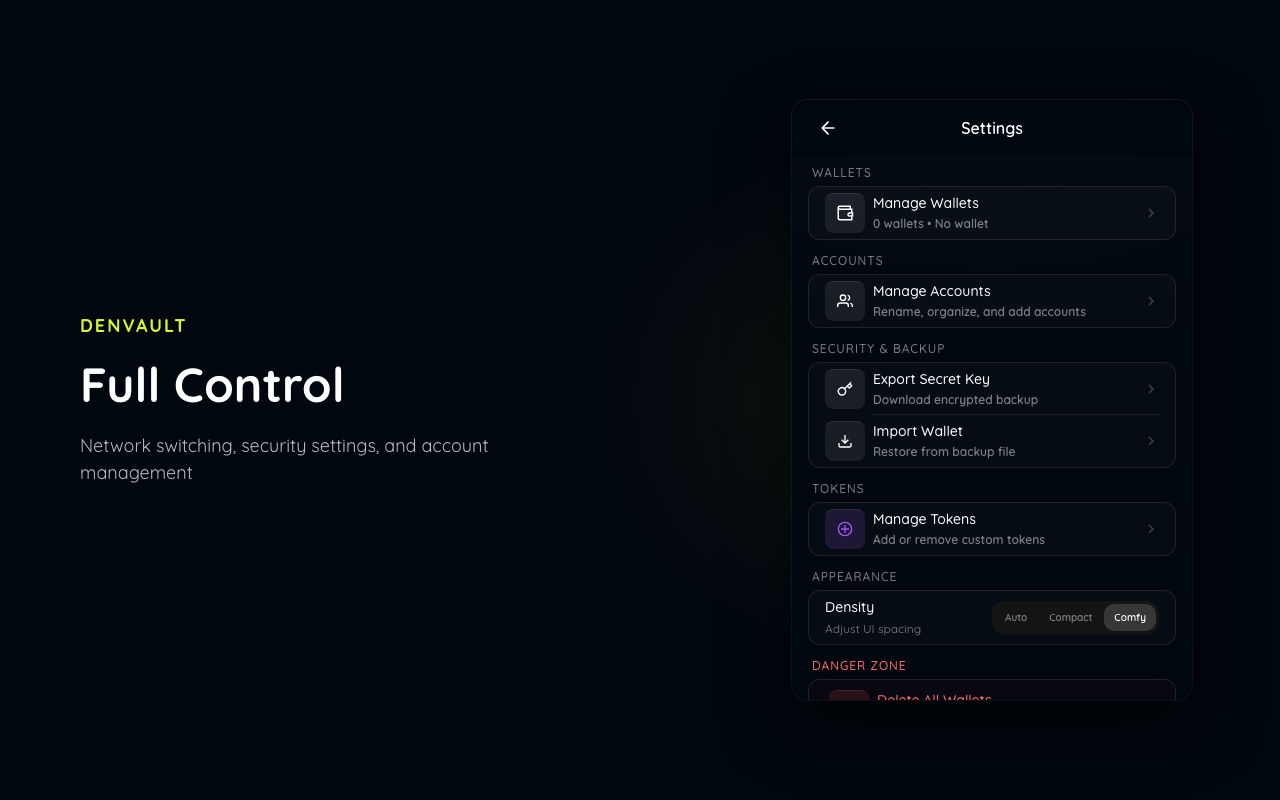
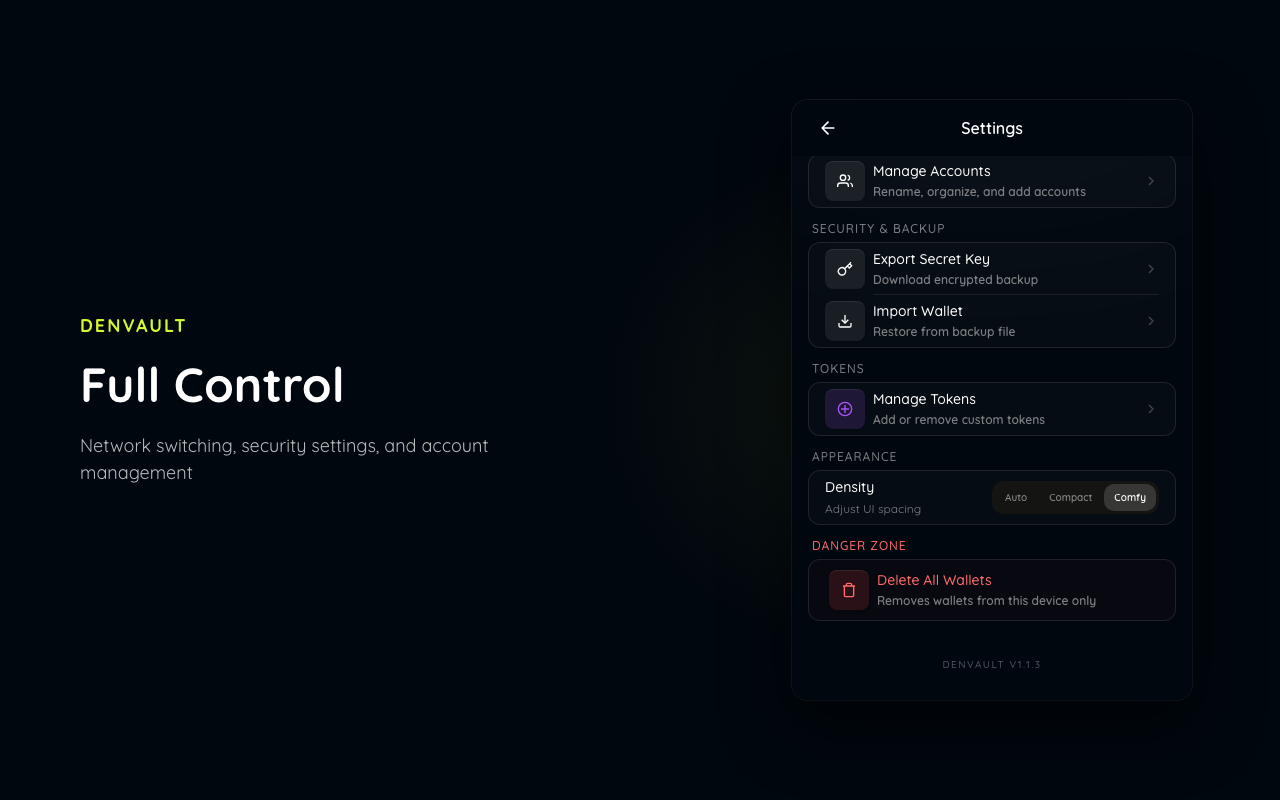
fix(settings): correct the wallet summary, the clipped frame and a stale version (#32)
Cleans up the two cosmetic defects on the Settings store card, and a real
bug the second fix exposed.

Wallet summary read "0 wallets - No wallet" on a screen that was showing
an unlocked wallet. Snapshot mode unlocks straight from the mnemonic
without ever writing a vault entry, so the summary was reporting the
truth about a fixture that did not represent a real install. The store
fixture now seeds the vault through its localStorage fallback, and the
row reads "1 wallet - Main Wallet".

Settings is taller than the 400x600 popup, so the frame cut through the
red "Delete All Wallets" row — a half-rendered destructive action as the
closing note of a marketing card. The card now scrolls to the end, so the
bottom of the content lines up with the bottom of the frame.

That reframing exposed the version footer, which was hardcoded to
"DENVAULT V1.0.1" while the manifest had moved to 1.1.3 — three versions
of drift, visible to every user in Settings. The value is now injected
from public/manifest.json at build time, which is what the browser and
the Chrome Web Store report. package.json would have been the wrong
source: it can drift from the manifest.

version-display.test.ts guards all three: the template must render the
injected value, must contain no version literal, and the injection must
come from the manifest.

Also tried compact density to fit the whole screen without scrolling and
rejected it: it clipped the "ACCOUNTS" label mid-height, pushed rows past
[…]

Changed region(s): [[0.625, 0.1875, 0.9062, 0.875], [0.8125, 0.5938, 0.9062, 0.6562]]

diff --git a/denvault-extension/e2e/store-screenshots.spec.ts b/denvault-extension/e2e/store-screenshots.spec.ts
@@ -64,6 +64,29 @@ async function setupUnlockedWallet(page: Page) {
     localStorage.setItem('__UI_SNAPSHOT_MNEMONIC__', mnemonic);
     localStorage.setItem('selected_network', 'testnet');
     localStorage.setItem('density_mode', 'comfy');
+
+    // Snapshot mode unlocks straight from the mnemonic without writing a
+    // vault entry, so Settings read back "0 wallets - No wallet" while
+    // showing an unlocked wallet. Seed the vault (localStorage fallback,
+    // used whenever chrome.storage is absent) so the summary matches the
+    // state the rest of the card is showing.
+    localStorage.setItem(
+      'wallet_vault',
+      JSON.stringify({
+        entries: [
+          {
+            id: 'snapshot-wallet',
+            name: 'Main Wallet',
+            // Placeholder: snapshot mode never decrypts this.
+            encryptedData: { ciphertext: '', iv: '', salt: '' },
+            createdAt: Date.UTC(2026, 0, 1),
+            version: 1,
+          },
+        ],
+        activeId: 'snapshot-wallet',
+        version: 1,
+      })
+    );
   }, TEST_MNEMONIC);
 }
 
@@ -108,6 +131,23 @@ async function mockBalances(page: Page) {
       }),
     })
   );
+}
+
+/**
+ * Settings is taller than the 400x600 popup, so at scroll 0 the frame cut
+ * through the red "Delete All Wallets" row — a half-rendered destructive
+ * action as the last thing on a marketing card. Scrolling to the end
+ * lines the bottom of the content up with the bottom of the frame.
+ */
+async function scrollToBottom(page: Page) {
+  await page.waitForTimeout(300);
+  await page.evaluate(() => {
+    const scrollable = Array.from(document.querySelectorAll<HTMLElement>("*")).find(
+      (el) => el.scrollHeight > el.clientHeight + 8 && el.clientHeight > 200
+    );
+    (scrollable ?? document.scrollingElement)?.scrollTo({ top: 1e6, behavior: "instant" });
+  });
+  await page.waitForTimeout(300);
 }
 
 async function waitForStableState(page: Page) {
@@ -160,6 +200,7 @@ const STORE_CARDS: StoreCard[] = [
     headline: 'Full Control',
     caption: 'Network switching, security settings, and account management',
     setup: setupUnlockedWallet,
+    afterNav: scrollToBottom,
   },
 ];
 

diff --git a/denvault-extension/src/test/version-display.test.ts b/denvault-extension/src/test/version-display.test.ts
@@ -1,0 +1,41 @@
+/**
+ * The version shown in Settings must come from the manifest.
+ *
+ * The footer carried a hardcoded "DENVAULT V1.0.1" while the manifest had
+ * moved to 1.1.3 — three versions of drift, visible to every user and
+ * baked into the Chrome Web Store screenshots. A version string a human
+ * has to remember to update is one that goes stale.
+ */
+
+import { describe, it, expect } from "vitest";
+import { readFileSync } from "node:fs";
+import { resolve } from "node:path";
+
+const USER_MENU_SOURCE = readFileSync(
+  resolve(__dirname, "../views/UserMenu.vue"),
+  "utf-8"
+);
+const VITE_CONFIG_SOURCE = readFileSync(
+  resolve(__dirname, "../../vite.config.ts"),
+  "utf-8"
+);
+
+describe("version display", () => {
+  it("renders the injected version rather than a literal", () => {
+    expect(USER_MENU_SOURCE).toContain("__APP_VERSION__");
+    expect(USER_MENU_SOURCE).toContain("DENVAULT V{{ appVersion }}");
+  });
+
+  it("has no hardcoded version literal in the settings screen", () => {
+    // Catches "V1.0.1", "v 1.2.3" and friends re-entering the template.
+    expect(USER_MENU_SOURCE).not.toMatch(/\bv\s?\d+\.\d+\.\d+/i);
+  });
+
+  it("sources the injected value from the manifest", () => {
+    // package.json would drift from the manifest, and the manifest is
+    // what the browser and the store report.
+    expect(VITE_CONFIG_SOURCE).toMatch(
+      /__APP_VERSION__:\s*JSON\.stringify\(manifest\.version\)/
+    );
+  });
+});

diff --git a/denvault-extension/vite.config.ts b/denvault-extension/vite.config.ts
@@ -3,6 +3,7 @@ import wasm from "vite-plugin-wasm";
 import { defineConfig } from "vite";
 import vue from "@vitejs/plugin-vue";
 import vueDevTools from "vite-plugin-vue-devtools";
+import manifest from "./public/manifest.json" with { type: "json" };
 
 // https://vite.dev/config/
 export default defineConfig(({ mode }) => ({
@@ -27,5 +28,9 @@ export default defineConfig(({ mode }) => ({
   },
   define: {
     __DEV__: JSON.stringify(mode === "development"),
+    // Sourced from the manifest, which is what the Chrome Web Store and
+    // the browser report. The settings footer used to carry a hardcoded
+    // string and had drifted three versions behind.
+    __APP_VERSION__: JSON.stringify(manifest.version),
   },
 }));

diff --git a/denvault-extension/src/views/UserMenu.vue b/denvault-extension/src/views/UserMenu.vue
@@ -41,6 +41,10 @@ function setDensityMode(mode: DensityMode) {
 }
 
 // V78: Wallet summary state (no longer expanding list)
+// Injected from public/manifest.json at build time — the version the
+// browser and the Chrome Web Store actually report.
+const appVersion = __APP_VERSION__;
+
 const walletCount = ref(0);
 const activeWalletName = ref<string>('');
 
@@ -423,7 +427,7 @@ function cancelImport() {
 
       <!-- Version Footer -->
       <footer class="version-footer">
-        DENVAULT V1.0.1
+        DENVAULT V{{ appVersion }}
       </footer>
     </div>
 

diff --git a/denvault-extension/env.d.ts b/denvault-extension/env.d.ts
@@ -1,3 +1,4 @@
 /// <reference types="vite/client" />
 
 declare const __DEV__: boolean;
+declare const __APP_VERSION__: string;
